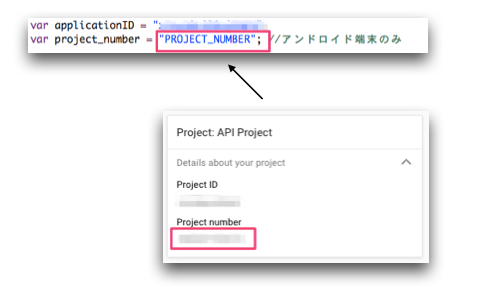
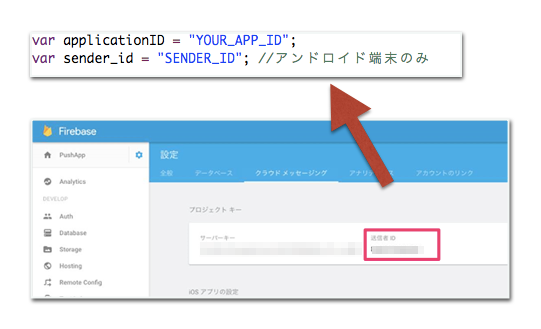
update fcm setting

diff --git a/readme.md b/readme.md
@@ -61,17 +61,6 @@ layout: false
 ]
 
 ---
-## 今回のハンズオンセミナーについて
-### 学ぶ内容
-
-「mBaaS Shop List」アプリの作成を通して、アクティブユーザー率を上げる<br>
-効率的なプッシュ通知の組み込み方を学びます<br><br>
-
-.center[
-![ペイロード](readme-image/seminar/ペイロード.png)
-]
-
----
 ## ニフティクラウド mobile backendとは
 ### サービス紹介
 
@@ -637,7 +626,7 @@ layout: false
 * 以下の手順でデータストアに「Shop」という名前のクラスを作成します
  * ニフティクラウド mobile backendのダッシュボードから「データストア」を開く
  * 「＋作成▼」ボタンをクリックし、「インポート」をクリックします
- * クラス名に「### Shop### 」と入力します
+ * クラス名に「Shop」と入力します
  * ダウンロードしたプロジェクトにあるSettingフォルダ内の「### Shop.json### 」を選択してアップロードします
 
 .center[
@@ -839,7 +828,7 @@ var applicationID = "YOUR_APP_ID";
 
 ---
 ## Shop情報の設定
-### ファイルストア：Shop画面画像の取得
+### ファイルストア：Shop画面の画像の取得
 
 上記同様、ショップ詳細画像の表示を実装します
 
@@ -1050,6 +1039,12 @@ AFTER
  * デバッグ用の実機 (iOS, Android)
  * プッシュ通知用証明書 (iOSの場合)
  * プッシュ通知用APIキー (Androidの場合)
+
+```
+ ※ Androidの場合、既にGCMにてプロジェクトの作成・GCMの有効化設定を終えている場合は、
+ APIキーは継続してご利用いただくことが可能です。新規の場合、FCMで作成する必要があります。
+```
+
 * APIキー、証明書の取得がまだの場合は下記をご参照ください
  * [【サンプル】アプリにプッシュ通知を組み込もう！](https://github.com/NIFTYCloud-mbaas/MonacaPushApp)
 
@@ -1095,7 +1090,7 @@ document.addEventListener("deviceready", function(){
     window.NCMB.monaca.setDeviceToken(
         appKey,
         clientKey,
-        project_number
+        sender_id
     );
     setTimeout(function(){
         //currentInstallationの情報を取得
@@ -1119,7 +1114,7 @@ document.addEventListener("deviceready", function(){
 ## プッシュ通知を送信
 ### プッシュ通知①：デバイストークンの取得
 
-* Androidの場合、`PROJECT_NUMBER` を設定します
+* Androidの場合、`SENDER_ID` を設定します
 
 ![androidprojnum.png](readme-image/androidprojnum.png)
 
